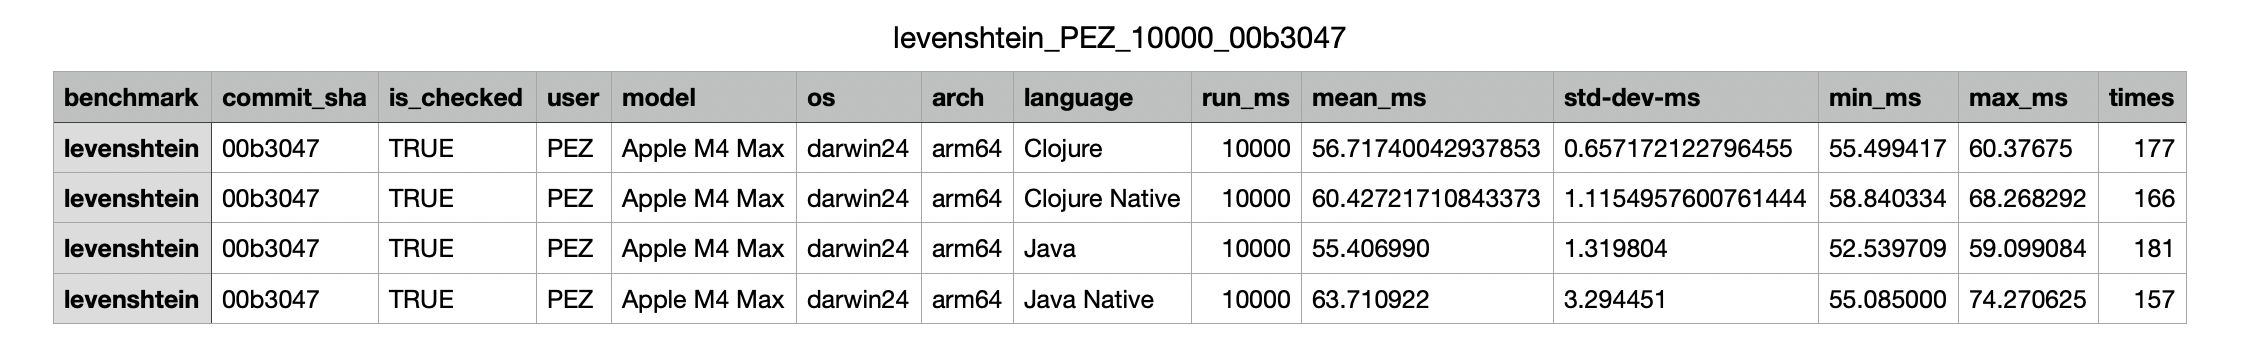
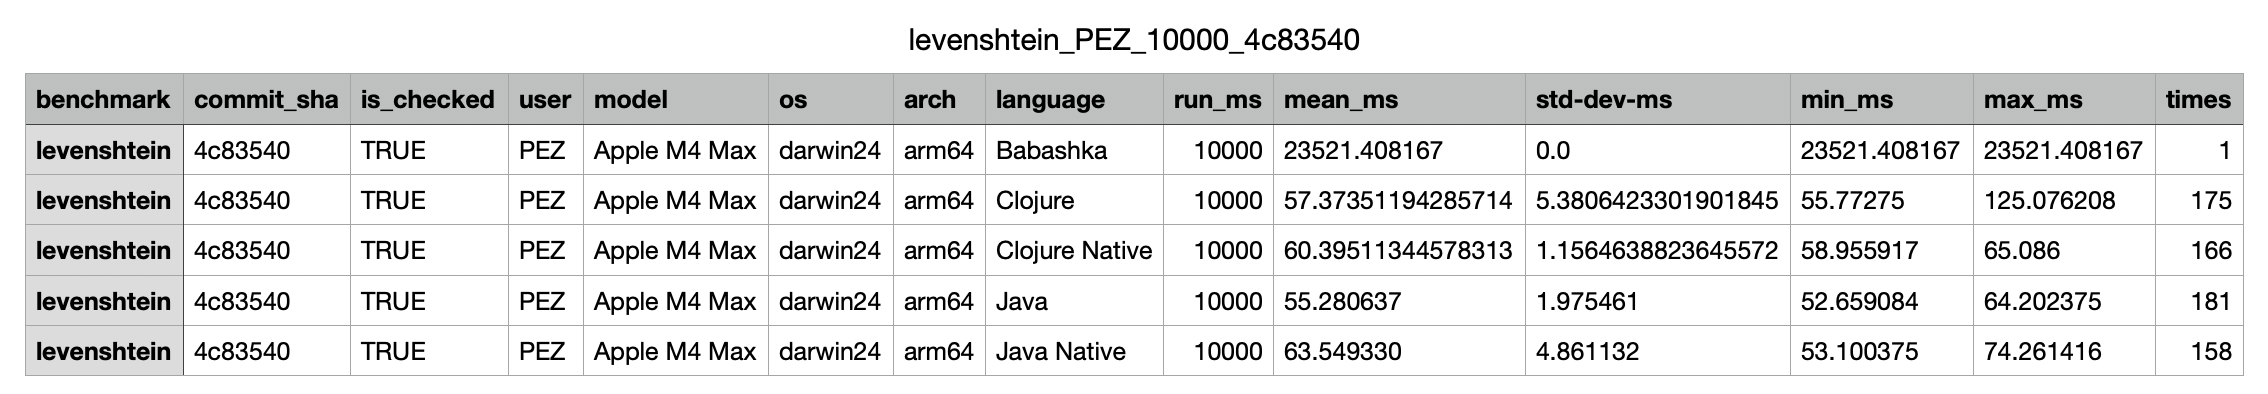
in-process-benching: Update README with Babashka results included

Changed region(s): [[0.0, 0.1833, 0.9991, 0.9778], [0.3747, 0.0611, 0.6244, 0.1528]]

diff --git a/README.md b/README.md
@@ -107,17 +107,18 @@ The default run time is `10000` ms. `-u` sets the user name (preferably your Git
 
 ```csv
 benchmark,commit_sha,is_checked,user,model,os,arch,language,run_ms,mean_ms,std-dev-ms,min_ms,max_ms,times
-levenshtein,00b3047,true,PEZ,Apple M4 Max,darwin24,arm64,Clojure,10000,56.71740042937853,0.657172122796455,55.499417,60.37675,177
-levenshtein,00b3047,true,PEZ,Apple M4 Max,darwin24,arm64,Clojure Native,10000,60.42721710843373,1.1154957600761444,58.840334,68.268292,166
-levenshtein,00b3047,true,PEZ,Apple M4 Max,darwin24,arm64,Java,10000,55.406990,1.319804,52.539709,59.099084,181
-levenshtein,00b3047,true,PEZ,Apple M4 Max,darwin24,arm64,Java Native,10000,63.710922,3.294451,55.085000,74.270625,157
+levenshtein,4c83540,true,PEZ,Apple M4 Max,darwin24,arm64,Babashka,10000,23521.408167,0.0,23521.408167,23521.408167,1
+levenshtein,4c83540,true,PEZ,Apple M4 Max,darwin24,arm64,Clojure,10000,57.37351194285714,5.3806423301901845,55.77275,125.076208,175
+levenshtein,4c83540,true,PEZ,Apple M4 Max,darwin24,arm64,Clojure Native,10000,60.39511344578313,1.1564638823645572,58.955917,65.086,166
+levenshtein,4c83540,true,PEZ,Apple M4 Max,darwin24,arm64,Java,10000,55.280637,1.975461,52.659084,64.202375,181
+levenshtein,4c83540,true,PEZ,Apple M4 Max,darwin24,arm64,Java Native,10000,63.549330,4.861132,53.100375,74.261416,158
 ```
 
 It's a CSV file you can open in something Excel-ish or consume with your favorite language.
 
 ![Example Result CSV in Numbers.app](docs/example-results-csv.png)
 
-As you can see, it has some meta data about the run, in addition to the benchmark results. **Clojure** ran the benchmark 177 times, with a mean time of **56.7 ms**. Which shows the point with the new runner, considering that Clojure takes **300 ms** to start.
+As you can see, it has some meta data about the run, in addition to the benchmark results. **Clojure** ran the benchmark 175 times, with a mean time of **57.3 ms**. Which shows the point with the new runner, considering that Clojure takes **300 ms** (on the same machine) to start.
 
 See [run-benchmark.sh](run-benchmark.sh) for some more command line options it accepts. Let's note one of them: `-l` which takes a string of comma separated language names, and only those languages will be run. Good for when contributing a new language or updates to a language. E.g:
 
